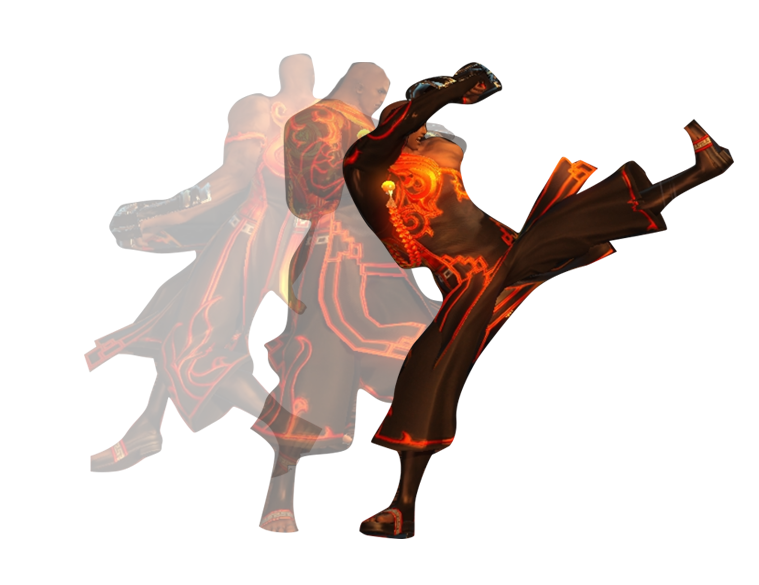
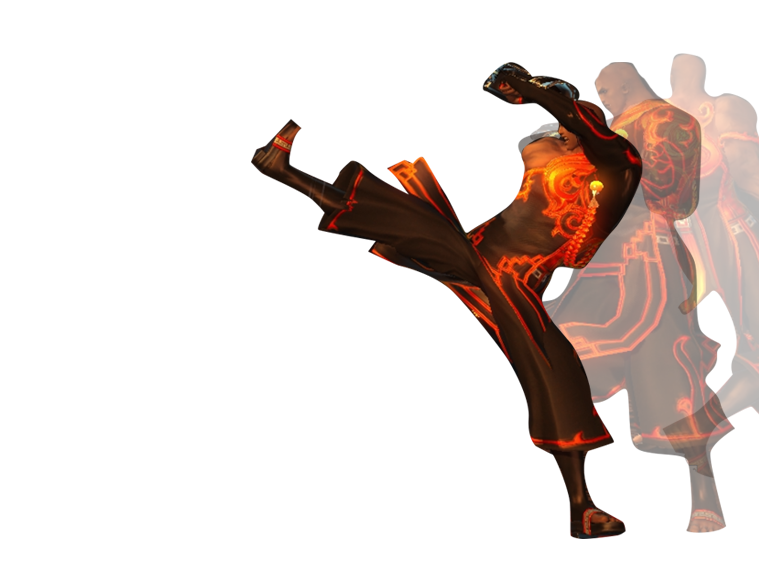
05

diff --git a/bns_parallax_05_edge.js b/bns_parallax_05_edge.js
@@ -1,0 +1,2 @@
+
+(function($,Edge,compId){var _=null,y=true,n=false,x3='3.0.0.322',e51='${_airstrike}',e32='${_Text4Copy}',a='Base State',e34='${_Beauty_icon}',x40='hidden',dt='Default Timeline',x10='13',x1='pt-sans, sans-serif',i='none',e43='${_fly_girl}',x54='-52px',e42='${_Text3}',x56='726px',lf='left',e28='${_Text2Copy2}',x48='rgba(0,0,0,0.62)',bp='background-position',bg='background-color',x57='auto',e50='${_counter}',fs='font-size',tp='top',x7='400',ov='overflow',x13='200',x25='stage',c='color',x16='rgba(0,0,0,0)',e39='${_Text3Copy3}',g='image',e62='${_kvingon_girl_final12}',x60='fly_girl',e35='${_Text4}',x='text',m='rect',x59='0px',h='height',x2='3.0.0',e33='${_target_back}',x55='487px',x53='-166px',x4='horizontal',x49='rgba(0,0,0,0.61)',p='px',o='opacity',e26='${_Text2Copy3}',x47='rgba(0,0,0,0.25)',e46='${_Stage}',e45='${_force_girl_02}',e44='${_breakneck}',e61='${symbolSelector}',e31='${_Beauty_iconCopy}',e41='${_Text3Copy}',l='normal',x52='kvingon_girl_final12',e38='${_Text}',e36='${_Text6}',e29='${_kvingon_backscreen}',w='width',x6='14',e37='${_Text2Copy5}',ql='linear',x30='@@0@@% @@1@@%',ff='font-family',x27='rgba(255,255,255,1.00)',s='style';var im='images/';var g21='target_back.png',g24='force_girl_02.png',g20='airstrike.png',g19='breakneck.png',g23='kvingon_backscreen.png',g58='kvingon_girl_final1.png',g17='Beauty_icon.png',g18='counter.png';var s5="КВИН ГОН",s22="Стоит тебе повернуться кругом <br>– и ты потеряешь цель. Благодаря этому же правилу можно уворачиваться от ударов.",s12="Больше не нужно кликать мышкой по врагам. Тот, кто находится перед тобой, автоматически становится целью, поэтому для нанесения удара достаточно оказаться на нужном расстоянии от противника и навести на него камеру.<br><br>",s8="СИСТЕМА БОЯ<br>",s14=" Многие виды ударов имеют определенный радиус поражения и действуют сразу на несколько противников.",s15="Если ты выберешь такой класс как «Мастер кунг-фу», комбо будут играть для тебя решающую роль. Причем важно не только самому правильно применить серию ударов, но и вовремя прервать комбо противника – в противном случае, ты можешь лишиться половины очков здоровья.<br>",s9="Поднять врага в воздух и резко уронить на землю, добить упавшего противника эффектным прыжком сверху – для этого и не только в Blade and Soul есть комбо-удары. Это цепочки умений, которые активируются в определенных игровых ситуациях.<br><br><br>",s11="Умелое применение контратак, блоков и уход от нападения сделают бой интереснее и разнообразнее. Причем важно не только самому правильно применить серию ударов, но и вовремя прервать комбо противника – в противном случае, ты можешь лишиться половины очков здоровья.";var fonts={};fonts[x1]='<script src=\"http://use.edgefonts.net/pt-sans:n4,i4,n7,i7:all.js\"></script>';var P=Edge.P,T=Edge.T,A=Edge.A;var opts={};var resources=[];var symbols={"stage":{v:x2,mv:x2,b:x3,bS:a,stf:i,cg:x4,iS:a,gpu:n,rI:n,cn:{dom:[{id:'Text3Copy',t:x,r:['30.4%','1096px','150px','25px','auto','auto'],text:s5,align:"left",n:[x1,x6,"rgba(255,255,255,1)",x7,i,l]},{id:'Text3',t:x,r:['30%','2345px','150px','25px','auto','auto'],text:s8,align:"left",n:[x1,x6,"rgba(255,255,255,1)",x7,i,l]},{id:'Text2Copy2',t:x,r:['30.1%','2378px','150px','179px','auto','auto'],text:s9,align:"left",n:[x1,x10,"rgba(255,255,255,1.00)",x7,i,l]},{id:'Text6',t:x,r:['45.2%','2383px','150px','217px','auto','auto'],text:s11,align:"left",n:[x1,x10,"rgba(255,255,255,1)",x7,i,l]},{id:'Text2Copy5',t:x,r:['30.4%','1134px','150px','217px','auto','auto'],text:s12,align:"left",n:[x1,x10,"rgba(255,255,255,1.00)",x13,i,l]},{id:'Text4',t:x,r:['60.2%','1134px','150px','170px','auto','auto'],text:s14,align:"left",n:[x1,x10,"rgba(255,255,255,1)",x13,i,l]},{id:'Text4Copy',t:x,r:['60.2%','2383px','150px','170px','auto','auto'],text:s15,align:"left",n:[x1,x10,"rgba(255,255,255,1)",x13,i,l]},{id:'Beauty_iconCopy',t:g,r:['22.7%','1096px','75px','75px','auto','auto'],f:[x16,im+g17,'0px','0px']},{id:'Beauty_icon',t:g,r:['22.7%','2345px','75px','75px','auto','auto'],f:[x16,im+g17,'0px','0px']},{id:'counter',t:g,r:['723px','2617px','64px','64px','auto','auto'],o:0.51171875,f:[x16,im+g18,'0px','0px']},{id:'breakneck',t:g,r:['882px','2617px','64px','64px','auto','auto'],o:0.5,f:[x16,im+g19,'0px','0px']},{id:'airstrike',t:g,r:['802px','2617px','64px','64px','auto','auto'],o:0.5,f:[x16,im+g20,'0px','0px']},{id:'target_back',t:g,r:['-4.3%','1512px','106.5%','23.9%','auto','auto'],o:1,f:[x16,im+g21,'50%','50%','1278px','718px'],filter:[0,0,1,1,0,0,0,0,"rgba(0,0,0,0)",0,0,0]},{id:'Text',t:x,r:['45.2%','1134px','150px','244px','auto','auto'],text:s22,align:"left",n:[x1,x10,"rgba(255,255,255,1)",x13,i,l]},{id:'kvingon_backscreen',t:g,r:['-30px','104px','106.7%','24%','auto','auto'],f:[x16,im+g23,'50%','50%','1280px','720px'],filter:[0,0,1,1,0,0,0,0,"rgba(0,0,0,0)",0,0,0]},{id:'force_girl_02',t:g,r:['53.9%','1445px','579px','893px','auto','auto'],f:[x16,im+g24,'0px','0px']},{id:'fly_girl',t:m,r:['325','340','auto','auto','auto','auto']}],sI:[{id:'fly_girl',sN:'fly_girl',a:{}}]},s:{},tl:{"Default Timeline":{fS:a,tS:"",d:5002,a:n,l:{"end":5000},tt:[]}}},"fly_girl":{v:x2,mv:x2,b:x3,bS:a,stf:i,cg:i,iS:a,gpu:n,rI:n,cn:{dom:[{id:x52,t:g,r:[x53,x54,x55,x56,x57,x57],f:[x16,im+g58,x59,x59]}],sI:[]},s:{},tl:{"Default Timeline":{fS:a,tS:"",d:1000,a:n,tt:[]}}}};var S1=symbols[x25];var tl0=S1.tl[dt].tt,st1=S1.s[a]={},A1=A(_,tl0,st1);A1.A(e26).P(tp,1477).P(w,427).P(c,x27,c).P(h,179).P(ff,x1).P(lf,377).P(fs,14);A1.A(e28).P(tp,2378).P(fs,13).P(h,179).P(c,x27,c).P(ff,x1).P(lf,30.08,_,_,"%").P(w,150,_,_,p);A1.A(e29).P(tp,104).P(bp,[50,50],_,x30).P(lf,-30);A1.A(e31).P(lf,22.67,_,_,"%").P(tp,1096,_,_,p);A1.A(e32).P(tp,2383).P(fs,13).P("font-weight",200,_,_,"").P(lf,60.17,_,_,"%").P(w,150,_,_,p);A1.A(e33).P(tp,1512).P(lf,-4.3,_,_,"%").P(h,23.92).P(o,1,_,_,"").P(bp,[50,50],_,x30).P(w,106.48,_,_,"%");A1.A(e34).P(lf,22.67,_,_,"%").P(tp,2345,_,_,p);A1.A(e35).P(tp,1134).P(w,150).P("font-weight",200,_,_,"").P(lf,60.17,_,_,"%").P(fs,13,_,_,p);A1.A(e36).P(tp,2383).P(lf,45.17,_,_,"%");A1.A(e37).P(c,x27,c).P("font-weight",200,_,_,"").P(lf,30.42,_,_,"%").P(fs,13,_,_,p).P(tp,1134).P(h,217).P(ff,x1).P("word-spacing",0).P(w,150);A1.A(e38).P(tp,1134).P(lf,45.17,_,_,"%").P(fs,13,_,_,p);A1.A(e39).P(tp,1445).P(lf,377);A1.A(e41).P(tp,1096).P("letter-spacing",2).P(lf,30.42,_,_,"%").P(w,150,_,_,p);A1.A(e42).P(tp,2345).P("letter-spacing",2).P(lf,30,_,_,"%").P(w,150,_,_,p);A1.A(e43).P(lf,325).T(0,324,1,ql).P(tp,340).T(0,543,1);A1.A(e44).P(tp,2617).P(lf,882).P(o,0.5,_,_,"").T(3.25,1,0.124,ql).T(3.374,0.5,0.126);A1.A(e45).P(h,893).P(w,579).P(tp,1445).T(4,1628,1.002,ql).P(lf,53.92,_,_,"%").T(4,67.67,1.002);A1.A(e46).P(w,100,_,_,"%").P(h,3000,_,_,p).P(ov,x40).P(bg,x47,c).T(0,x48,1,ql).T(3,x47,1,_,x49);A1.A(e50).P(tp,2617).P(lf,723).P(o,0.51,_,_,"").T(2.75,1,0.133,ql).T(2.883,0.5,0.117);A1.A(e51).P(tp,2617).P(lf,802).P(o,0.5,_,_,"").T(3,1,0.127,ql).T(3.127,0.5,0.123);var S2=symbols[x60];var tl1=S2.tl[dt].tt,st2=S2.s[a]={},A2=A(_,tl1,st2);A2.A(e61).P(h,726).P(w,487);A2.A(e62).P(lf,-17).T(0,112,1,ql).P(tp,-5).T(0,-4,1);Edge.registerCompositionDefn(compId,symbols,fonts,resources,opts);$(window).ready(function(){Edge.launchComposition(compId);});})(jQuery,AdobeEdge,"EDGE-733169868");

diff --git a/bns_parallax_05_edgePreload.js b/bns_parallax_05_edgePreload.js
@@ -10,7 +10,7 @@ function bindPSS(a,d){if(!isWrapped(a)){var b=function(){var b=isWrapped(a),f=b?
 function centerThePreloadStage(a,d){isWrapped(a)&&(a=parent(a));var b=a.style;/^both$|^horizontal$/.test(d)&&(b.position="absolute",b.marginLeft="auto",b.marginRight="auto",b.left="0",b.right="0");/^both$|^vertical$/.test(d)&&(b.position="absolute",b.marginTop="auto",b.marginBottom="auto",b.top="0",b.bottom="0")}
 function simpleContent(a,d,b){var k=document.getElementsByTagName("body")[0],f=b||findNWC(k,compId),c,g,h;f?"absolute"!=f.style.position&&"relative"!=f.style.position&&(f.style.position="relative"):f=k;plHeight&&(f.style.height=plHeight);plWidth&&(f.style.width=plWidth);/^height$|^width$|^both$/.test(plSTF)&&d&&!b&&bindPSS(f,plSTF);/^vertical$|^horizontal$|^both$/.test(ctrPlS)&&d&&!b&&centerThePreloadStage(f,ctrPlS);for(var n=0;n<a.length;n++){b=a[n];"image"===b.type?(k=document.createElement("img"),k.src=b.fill[1]):k=document.createElement("div");k.id=b.id;h=k.style;if("text"==b.type){if(c=b.font)c[0]&&""!==c[0]&&(h.fontFamily=c[0]),"object"!=typeof c[1]&&(c[1]=[c[1]]),c[1][1]||(c[1][1]="px"),c[1][0]&&""!==c[1][0]&&(h.fontSize=c[1][0]+c[1][1]),c[2]&&""!==c[2]&&(h.color=safeColor(c[2])),c[3]&&""!==c[3]&&(h.fontWeight=c[3]),c[4]&&""!==c[4]&&(h.textDecoration=b.font[4]),c[5]&&""!==c[5]&&(h.fontStyle=b.font[5]);b.align&&"auto"!=b.align&&(h.textAlign=b.align);b.position&&(h.position=b.position);(!b.rect[2]||0>=b.rect[2])&&(!b.rect[3]||0>=b.rect[3])&&(h.whiteSpace="nowrap");k.innerHTML=b.text}d&&(k.className=d);h.position="absolute";c=b.rect[0];g=b.rect[1];if(b.transform&&b.transform[0]){var m=b.transform[0][0],e=splitUnits(m);if(e&&e.units&&(m=e.num,"%"==e.units&&b.rect[2])){var e=b.rect[2],l=splitUnits(b.rect[2]);l&&l.units&&(e=l.num,"%"==l.units&&(e=e/100*f.offsetWidth));m=m/100*e;0<f.offsetWidth&&(m=m/f.offsetWidth*100)}if(e=splitUnits(c))c=e.num;c+=m;e.units||(e.units="px");c+=e.units;if(1<b.transform[0].length){m=b.transform[0][1];(e=splitUnits(m))&&e.units&&(m=e.num,"%"==e.units&&b.rect[3]&&(e=b.rect[3],(l=splitUnits(b.rect[3]))&&l.units&&(e=l.num,"%"==l.units&&(e=e/100*f.offsetHeight)),m=m/100*e,0<f.offsetHeight&&(m=m/f.offsetHeight*100)));if(e=splitUnits(g))g=e.num;g+=m;e.units||(e.units="px");g+=e.units}}h.left=defaultUnits(c);h.top=defaultUnits(g);h.width=defaultUnits(b.rect[2]);h.height=defaultUnits(b.rect[3]);b.linkURL&&(htLookup[k.id]=b,k.onclick=function(){var a=htLookup[this.id];a.linkTarget?window.open(a.linkURL,a.linkTarget):window.location.href=a.linkURL},h.cursor="pointer");f.appendChild(k);if(b.c)for(h=0;h<b.c.length;h++)simpleContent(b.c[h],d,k)}}var fnCycle=function(a){a?fnCycle&&setTimeout(fnCycle,20):a={event:"loading",progress:0};loadingEvt&&loadingEvt(a)},aBootcompsLoaded=[];window.AdobeEdge.bootstrapListeners||(window.AdobeEdge.bootstrapListeners=[]);window.AdobeEdge.bootstrapCallback=function(a){window.AdobeEdge.bootstrapListeners.push(a);if(0<aBootcompsLoaded.length)for(var d=0;d<aBootcompsLoaded.length;d++)a(aBootcompsLoaded[d])};window.AdobeEdge.preloadComplete||(window.AdobeEdge.preloadComplete={});window.AdobeEdge.preloadComplete[compId]=function(a){AdobeEdge.$_(".edgePreload"+a).css("display","none");fnCycle=null;loadingEvt&&loadingEvt({event:"done",progress:1,reason:"complete"});aBootcompsLoaded.push(a);for(var d=window.AdobeEdge.bootstrapListeners.length,b=0;b<d;b++)try{window.AdobeEdge.bootstrapListeners[b](a)}catch(k){console.log("bootstrap error "+k)}};function isCapable(){return hasTransform?requiresSVG&&!hasSVG?!1:!0:!1}
 function onDocLoaded(a){window.AdobeEdge.loaded=!0;fnCycle({event:"begin"});isCapable()?(preContent&&preContent.dom&&preContent.dom.length&&simpleContent(preContent.dom,"edgePreload"+compId),filesToLoad&&!signaledLoading&&(loadResources(filesToLoad),filesToLoad=void 0)):dlContent&&dlContent.dom&&(loadingEvt&&loadingEvt({event:"done",progress:1,reason:"downlevel"}),simpleContent(dlContent.dom))};window.AdobeEdge=window.AdobeEdge||{};window.AdobeEdge.framework='jquery';if(document.addEventListener){window.addEventListener("load",onDocLoaded,false);}else if(document.attachEvent){window.attachEvent("onload",onDocLoaded);}
-requiresSVG=false;doDelayLoad=false;htFallbacks={"edge_includes/jquery-2.0.3.min.js":"//ajax.googleapis.com/ajax/libs/jquery/2.0.3/jquery.min.js","edge_includes/edge.3.0.0.min.js":"//animate.adobe.com/runtime/3.0.0/edge.3.0.0.min.js"};aLoader=[{load:"//ajax.googleapis.com/ajax/libs/jquery/2.0.3/jquery.min.js",callback:function(result,key){if(!window.jQuery){yepnope({load:"edge_includes/jquery-2.0.3.min.js",callback:edgeCallback});return false;}return true;}},{load:"//animate.adobe.com/runtime/3.0.0/edge.3.0.0.min.js",callback:function(result,key){if(!window.AdobeEdge){yepnope({load:"edge_includes/edge.3.0.0.min.js",callback:edgeCallback});return false;}return true;}},{load:"1.1.2/js/max/EdgeCommons.Parallax.js",user:true},{load:"1.1.2/js/max/EdgeCommons.js",user:true},{load:"1.1.2/js/max/EdgeCommons.Core.js",user:true},{load:"bns_parallax_04_edge.js"},{load:"bns_parallax_04_edgeActions.js"}];if(AdobeEdge.bootstrapLoading){signaledLoading=true;AdobeEdge.loadResources=doLoadResources;AdobeEdge.playWhenReady=playWhenReady;}
+requiresSVG=false;doDelayLoad=false;htFallbacks={"edge_includes/jquery-2.0.3.min.js":"//ajax.googleapis.com/ajax/libs/jquery/2.0.3/jquery.min.js","edge_includes/edge.3.0.0.min.js":"//animate.adobe.com/runtime/3.0.0/edge.3.0.0.min.js"};aLoader=[{load:"//ajax.googleapis.com/ajax/libs/jquery/2.0.3/jquery.min.js",callback:function(result,key){if(!window.jQuery){yepnope({load:"edge_includes/jquery-2.0.3.min.js",callback:edgeCallback});return false;}return true;}},{load:"//animate.adobe.com/runtime/3.0.0/edge.3.0.0.min.js",callback:function(result,key){if(!window.AdobeEdge){yepnope({load:"edge_includes/edge.3.0.0.min.js",callback:edgeCallback});return false;}return true;}},{load:"1.1.2/js/max/EdgeCommons.Parallax.js",user:true},{load:"1.1.2/js/max/EdgeCommons.js",user:true},{load:"1.1.2/js/max/EdgeCommons.Core.js",user:true},{load:"bns_parallax_05_edge.js"},{load:"bns_parallax_05_edgeActions.js"}];if(AdobeEdge.bootstrapLoading){signaledLoading=true;AdobeEdge.loadResources=doLoadResources;AdobeEdge.playWhenReady=playWhenReady;}
 loadResources(aLoader,doDelayLoad);var plSTF="none",ctrPlS="horizontal",minPlW="0",maxPlW=undefined,plWidth="100%",plHeight="3000px";preContent={dom:[]};
 //simpleContent
 dlContent={dom:[]};

diff --git a/bns_parallax_05_edgeActions.js b/bns_parallax_05_edgeActions.js
@@ -1,0 +1,17 @@
+
+(function($,Edge,compId){var Composition=Edge.Composition,Symbol=Edge.Symbol;
+//Edge symbol: 'stage'
+(function(symbolName){Symbol.bindSymbolAction(compId,symbolName,"creationComplete",function(sym,e){$('body').css({"background-image":"url(images/main_back_01.jpg)","background-attachment":"fixed","background-position":"center top","background-size":"cover"});$(window).scroll(function(e){var scrollTop=$(window).scrollTop();var docHeight=$(document).height();var winHeight=$(window).height();var scrollPercent=(scrollTop)/(docHeight-winHeight);var percentageScrolled=(scrollPercent*100)/100;var pos=Math.round(percentageScrolled*sym.getDuration());if(pos>1000&&pos<1100){$('body').css({"background-image":"url(images/main_back_02.jpg)","background-attachment":"fixed","background-position":"center top","background-size":"cover"});}
+sym.stop(pos);});var container=sym.$("Rectangle3");container.append('<iframe src="http://coub.com/embed/615laet9?muted=false&amp;autostart=false&originalSize=false&hideTopBar=false&noSiteButtons=false&startWithHD=false" allowfullscreen="true" frameborder="0" width="330" height="185"></iframe>');sym.getSymbol("fly_girl").onMove=function(posX,posY){var girl=sym.getSymbol("fly_girl");timelineControl=Number(posX)*0.5;console.log(timelineControl);sym.getSymbol("fly_girl").stop(timelineControl);}});
+//Edge binding end
+Symbol.bindElementAction(compId,symbolName,"${_Stage}","mousemove",function(sym,e){var girl=sym.getSymbol("fly_girl");sym.getSymbol("fly_girl").onMove(e.pageX,e.pageY);});
+//Edge binding end
+})("stage");
+//Edge symbol end:'stage'
+
+//=========================================================
+
+//Edge symbol: 'fly_girl'
+(function(symbolName){})("fly_girl");
+//Edge symbol end:'fly_girl'
+})(jQuery,AdobeEdge,"EDGE-733169868");

diff --git a/bns_parallax_05.html b/bns_parallax_05.html
@@ -5,7 +5,7 @@
 	<meta http-equiv="X-UA-Compatible" content="IE=Edge"/>
 	<title>bns_scoll</title>
 <!--Adobe Edge Runtime-->
-    <script type="text/javascript" charset="utf-8" src="bns_parallax_04_edgePreload.js"></script>
+    <script type="text/javascript" charset="utf-8" src="bns_parallax_05_edgePreload.js"></script>
     <style>
         .edgeLoad-EDGE-733169868 { visibility:hidden; }
     </style>
